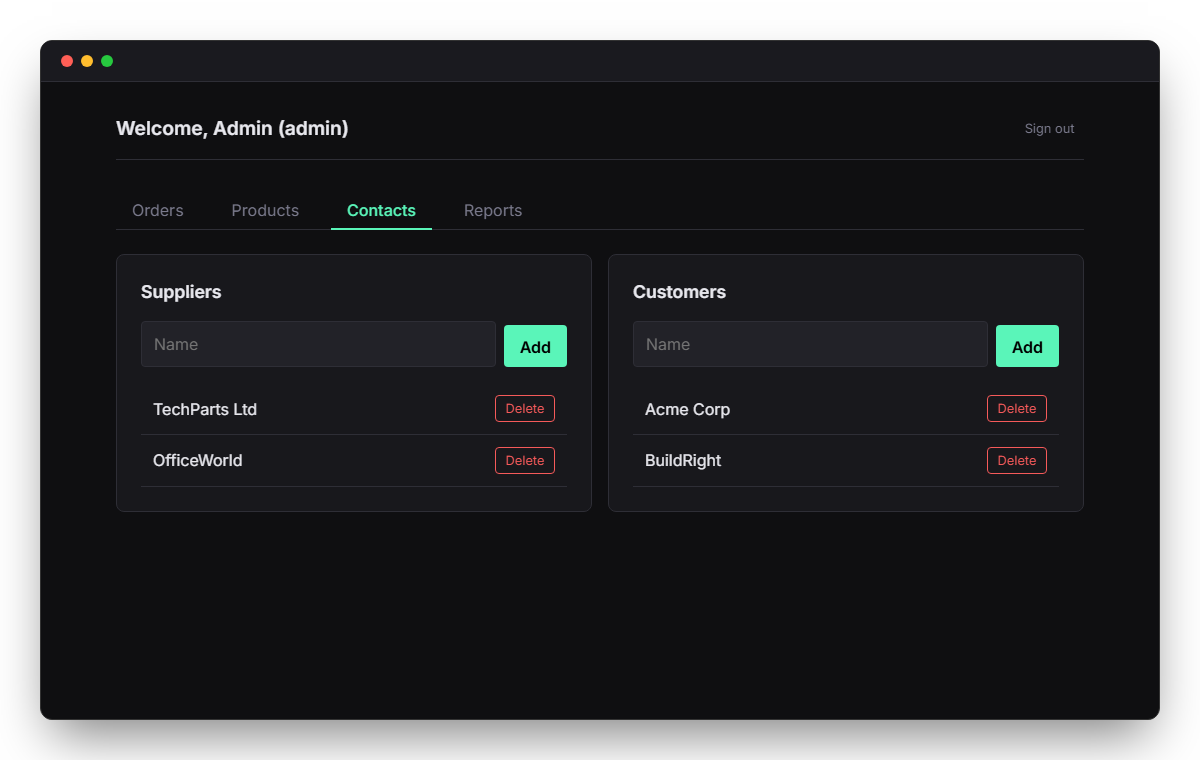
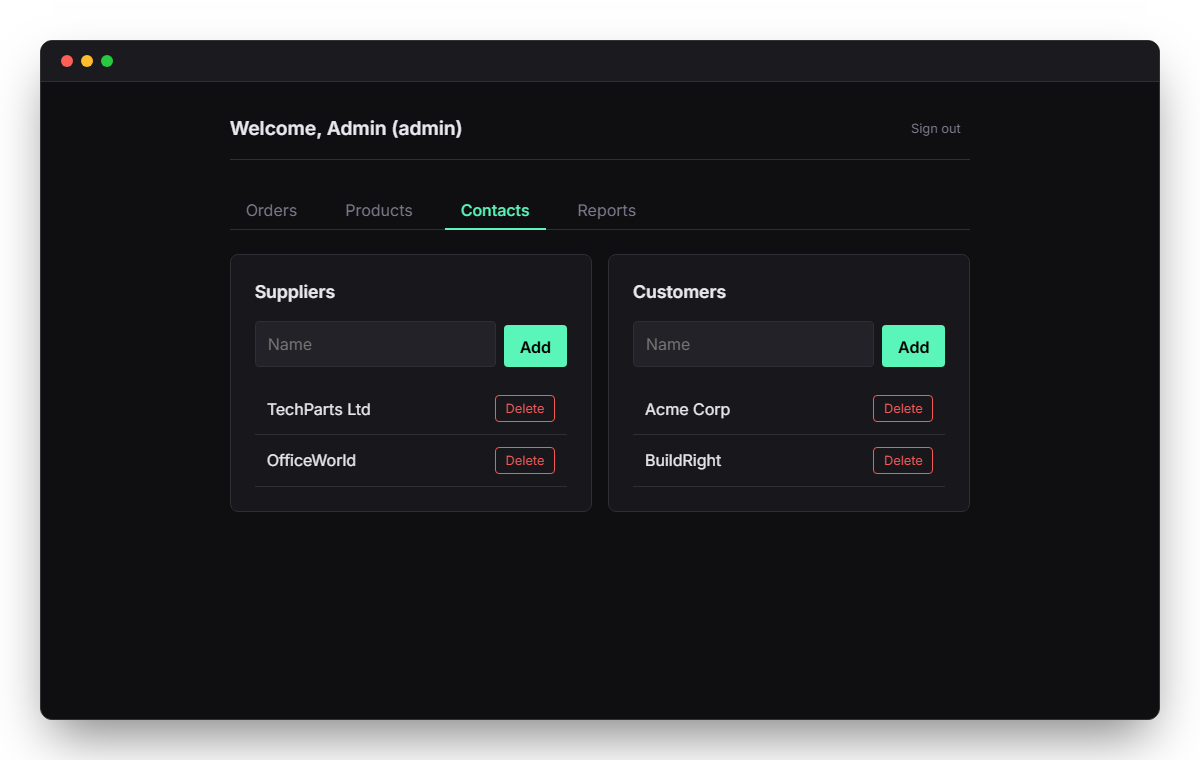
Fix login box vertical centering

diff --git a/capture_screenshots.py b/capture_screenshots.py
@@ -52,14 +52,15 @@ inject_mac_ui = """() => {
     appContainer.style.flexDirection = 'column';
 
     const style = document.createElement('style');
-    style.innerHTML = '.page-center { min-height: 100% !important; height: auto !important; }';
+    style.innerHTML = '.page-center { flex: 1 !important; display: flex !important; flex-direction: column !important; justify-content: center !important; }';
     document.head.appendChild(style);
 
     app.parentNode.insertBefore(captureArea, app);
     appContainer.appendChild(app);
     
-    app.style.height = 'max-content';
-    app.style.minHeight = '100%';
+    app.style.flex = '1';
+    app.style.display = 'flex';
+    app.style.flexDirection = 'column';
     app.style.width = '100%';
 
     macWindow.appendChild(appContainer);
